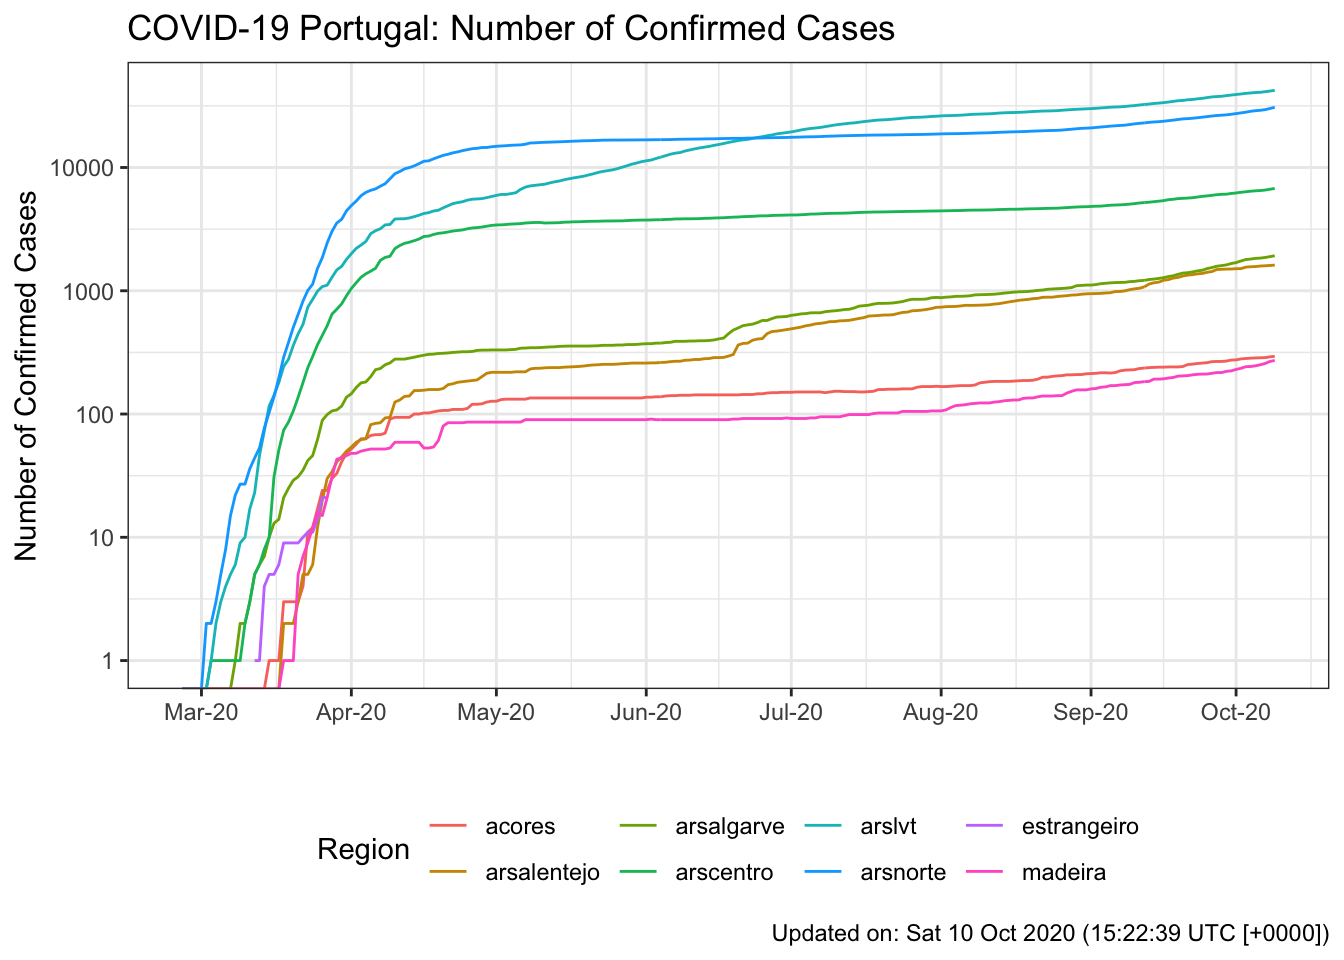
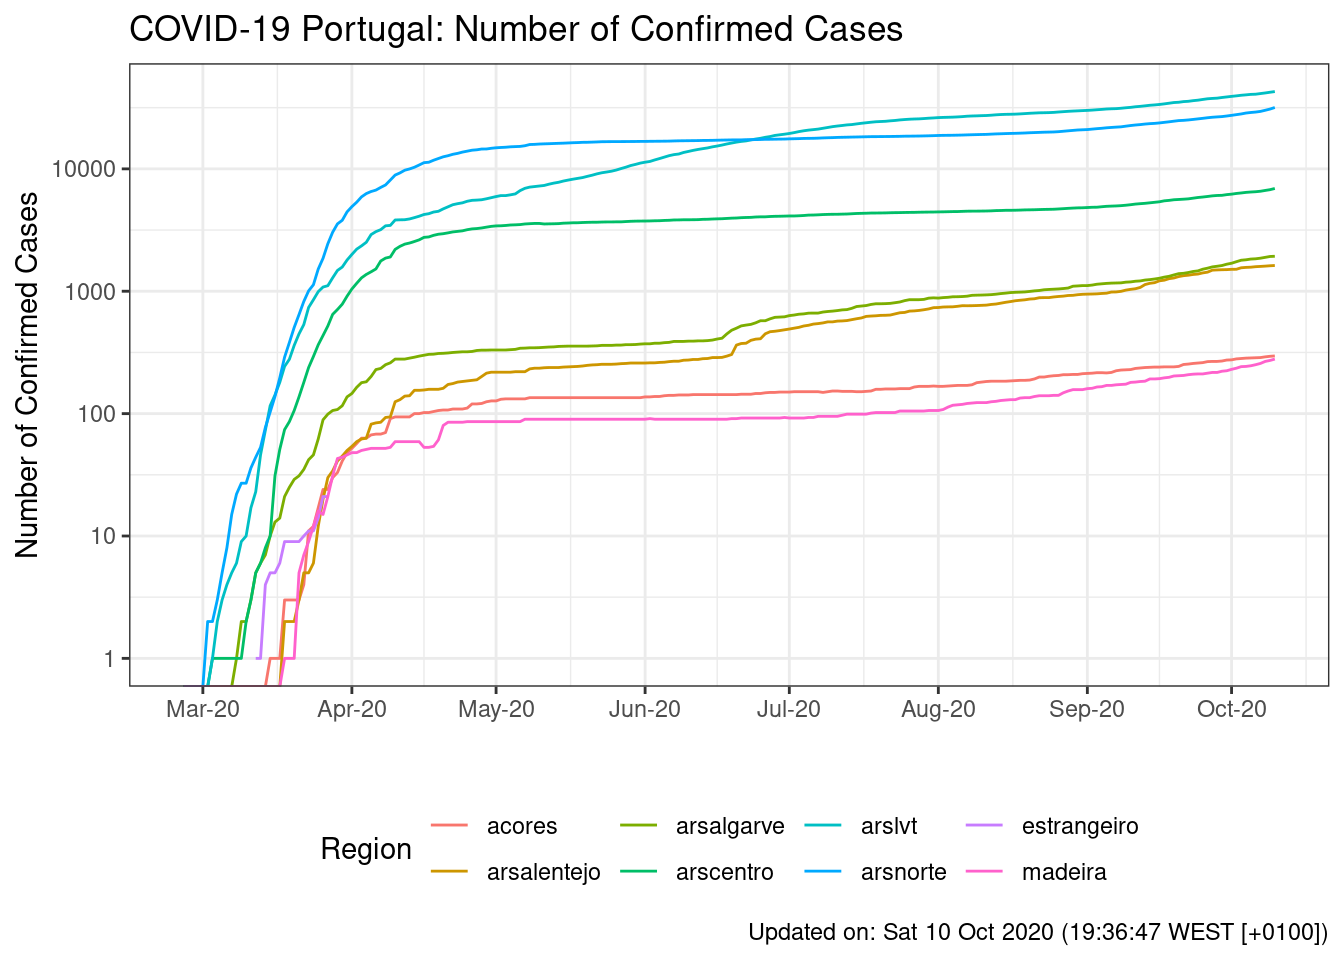
Manual update and tweaks to confirmed cases graph.

diff --git a/README.md b/README.md
@@ -4,9 +4,9 @@ README](https://github.com/CEAUL/Dados_COVID-19_PT/workflows/Render%20README/bad
 
 ## Daily Portuguese COVID-19 Data
 
-**Last updated: Sat 10 Oct 2020 (15:22:36 UTC \[+0000\])**
+**Last updated: Sat 10 Oct 2020 (19:36:46 WEST \[+0100\])**
 
-  - Data available from **26 Feb 2020** until **09 Oct 2020** (227
+  - Data available from **26 Feb 2020** until **10 Oct 2020** (228
     days).
 
 ### Download User Friendly Version
@@ -45,18 +45,18 @@ The original data were downloaded from an API provide by VOST
 
 ### Summary: Last 10 (available) Days
 
-|            Date | Cases\_7\_Day\_Mean |         Cases |       Active |    Recovered |     Deaths |
-| --------------: | ------------------: | ------------: | -----------: | -----------: | ---------: |
-| Wed 30 Sep 2020 |               725.3 |  75542 (+825) | 25041 (+480) | 48530 (+337) |  1971 (+8) |
-| Thu 01 Oct 2020 |               748.6 |  76396 (+854) | 25482 (+441) | 48937 (+407) |  1977 (+6) |
-| Fri 02 Oct 2020 |               747.0 |  77284 (+888) | 25942 (+460) | 49359 (+422) |  1983 (+6) |
-| Sat 03 Oct 2020 |               758.3 |  78247 (+963) | 26407 (+465) | 49845 (+486) | 1995 (+12) |
-| Sun 04 Oct 2020 |               792.4 |  79151 (+904) | 26939 (+532) | 50207 (+362) | 2005 (+10) |
-| Mon 05 Oct 2020 |               836.6 |  79885 (+734) | 27413 (+474) | 50454 (+247) | 2018 (+13) |
-| Tue 06 Oct 2020 |               799.3 |  80312 (+427) | 27568 (+155) | 50712 (+258) | 2032 (+14) |
-| Wed 07 Oct 2020 |               816.3 |  81256 (+944) | 28179 (+611) | 51037 (+325) |  2040 (+8) |
-| Thu 08 Oct 2020 |               876.9 | 82534 (+1278) | 28967 (+788) | 51517 (+480) | 2050 (+10) |
-| Fri 09 Oct 2020 |               949.1 | 83928 (+1394) | 29702 (+735) | 52164 (+647) | 2062 (+12) |
+|            Date | Cases\_7\_Day\_Mean |         Cases |        Active |    Recovered |     Deaths |
+| --------------: | ------------------: | ------------: | ------------: | -----------: | ---------: |
+| Thu 01 Oct 2020 |               748.6 |  76396 (+854) |  25482 (+441) | 48937 (+407) |  1977 (+6) |
+| Fri 02 Oct 2020 |               747.0 |  77284 (+888) |  25942 (+460) | 49359 (+422) |  1983 (+6) |
+| Sat 03 Oct 2020 |               758.3 |  78247 (+963) |  26407 (+465) | 49845 (+486) | 1995 (+12) |
+| Sun 04 Oct 2020 |               792.4 |  79151 (+904) |  26939 (+532) | 50207 (+362) | 2005 (+10) |
+| Mon 05 Oct 2020 |               836.6 |  79885 (+734) |  27413 (+474) | 50454 (+247) | 2018 (+13) |
+| Tue 06 Oct 2020 |               799.3 |  80312 (+427) |  27568 (+155) | 50712 (+258) | 2032 (+14) |
+| Wed 07 Oct 2020 |               816.3 |  81256 (+944) |  28179 (+611) | 51037 (+325) |  2040 (+8) |
+| Thu 08 Oct 2020 |               876.9 | 82534 (+1278) |  28967 (+788) | 51517 (+480) | 2050 (+10) |
+| Fri 09 Oct 2020 |               949.1 | 83928 (+1394) |  29702 (+735) | 52164 (+647) | 2062 (+12) |
+| Sat 10 Oct 2020 |              1046.7 | 85574 (+1646) | 30704 (+1002) | 52803 (+639) |  2067 (+5) |
 
 Change from previous day in brackets.
 
@@ -81,19 +81,19 @@ CVPT <- fread(here("data", "covid19pt_DSSG_Long.csv"))
 # Looking at the data:
 tail(CVPT)
 ##          data   origVars   origType other symptoms sex ageGrpLower ageGrpUpper
-## 1: 2020-10-04 vigilancia vigilancia                All                        
-## 2: 2020-10-05 vigilancia vigilancia                All                        
-## 3: 2020-10-06 vigilancia vigilancia                All                        
-## 4: 2020-10-07 vigilancia vigilancia                All                        
-## 5: 2020-10-08 vigilancia vigilancia                All                        
-## 6: 2020-10-09 vigilancia vigilancia                All                        
+## 1: 2020-10-05 vigilancia vigilancia                All                        
+## 2: 2020-10-06 vigilancia vigilancia                All                        
+## 3: 2020-10-07 vigilancia vigilancia                All                        
+## 4: 2020-10-08 vigilancia vigilancia                All                        
+## 5: 2020-10-09 vigilancia vigilancia                All                        
+## 6: 2020-10-10 vigilancia vigilancia                All                        
 ##    ageGrp   region value valueUnits
-## 1:        Portugal 46348      Count
-## 2:        Portugal 46272      Count
-## 3:        Portugal 46437      Count
-## 4:        Portugal 46023      Count
-## 5:        Portugal 46182      Count
-## 6:        Portugal 47721      Count
+## 1:        Portugal 46272      Count
+## 2:        Portugal 46437      Count
+## 3:        Portugal 46023      Count
+## 4:        Portugal 46182      Count
+## 5:        Portugal 47721      Count
+## 6:        Portugal 47602      Count
 
 # Order data by original variable name and date.
 setkeyv(CVPT, c("origVars", "data"))
@@ -160,7 +160,7 @@ CV[origType=="confirmados" & ageGrp=="" & region!="Portugal"] %>%
     caption = paste0("Updated on: ", format(Sys.time(), "%a %d %b %Y (%H:%M:%S %Z [%z])")),
     colour = "Region")
 ## Warning: Transformation introduced infinite values in continuous y-axis
-## Warning: Removed 211 row(s) containing missing values (geom_path).
+## Warning: Removed 212 row(s) containing missing values (geom_path).
 ```
 
 <img src="README_figs/README-casesbyRegion-1.png" width="672" />
